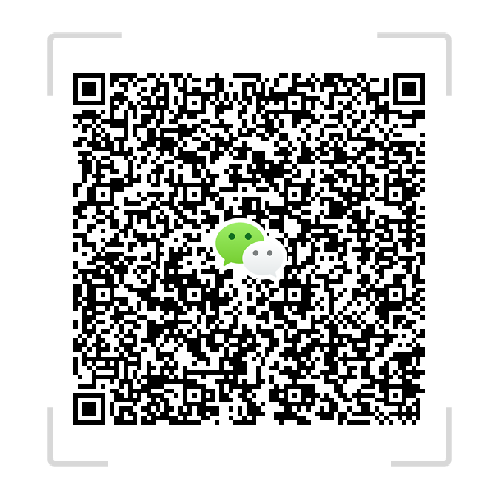
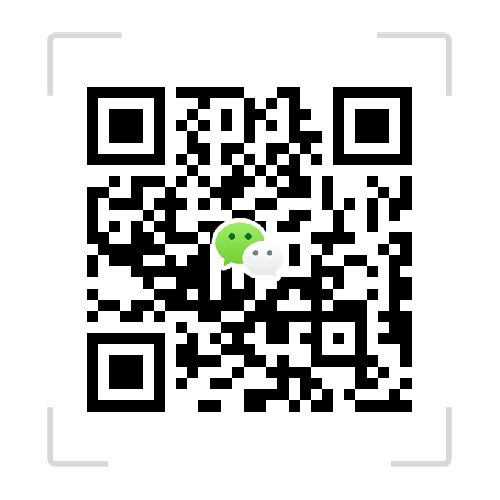
简化二维码

Changed region(s): [[0.12, 0.12, 0.87, 0.87]]

diff --git a/JETUI/OracleInteractUI/public_html/js/viewModels/login.js b/JETUI/OracleInteractUI/public_html/js/viewModels/login.js
@@ -10,7 +10,7 @@ define(['ojs/ojcore', 'knockout', 'jquery', 'ojs/ojknockout', 'ojs/ojinputtext',
                 $("#mymodal").modal("toggle");
             }
             //  var getUrl = "http://yayma.tunnel.echomod.cn/userinfo/all";
-            var getUrl = "http://localhost:80/customer/check";
+            var getUrl = "http://yayma.tunnel.echomod.cn/customer/check";
             //var getUrl = "css/userinfo/userinfo.json";
             $.ajax(
                 {
@@ -19,11 +19,10 @@ define(['ojs/ojcore', 'knockout', 'jquery', 'ojs/ojknockout', 'ojs/ojinputtext',
                     data: JSON.stringify(str),
                     dataType: "json",
                     contentType: "application/json",
-                   success: function(result) {
-                       // alert(result);
+                    success: function (result) {
+                        // alert(result);
                         if (result == 1) {
                             window.location.href = "http://localhost:8081/index.html?root=navigation";
-                            //window.location.href = "http://www.kanmaui.tunnel.echomod.cn/index.html?root=customers";
                         } else if (username === "" || username === null) {
                             $("#mymodal").modal("toggle");
                         }
@@ -31,6 +30,9 @@ define(['ojs/ojcore', 'knockout', 'jquery', 'ojs/ojknockout', 'ojs/ojinputtext',
                             $("#reginfo").modal("toggle");
                         }
 
+                    },
+                    error: function (e) {
+                        alert("you have not registered！");
                     }
                 });
 
@@ -46,7 +48,7 @@ define(['ojs/ojcore', 'knockout', 'jquery', 'ojs/ojknockout', 'ojs/ojinputtext',
             // alert(JSON.stringify(str));
             $.ajax(
                 {
-                    url: "http://localhost:80/customer/save",
+                    url: "http://yayma.tunnel.echomod.cn/customer/save",
                     type: "POST",
                     data: JSON.stringify(str),
                     dataType: "json",
@@ -58,13 +60,12 @@ define(['ojs/ojcore', 'knockout', 'jquery', 'ojs/ojknockout', 'ojs/ojinputtext',
                             console.log($("#mymodal"));
                             ($("#regsuccess").modal("toggle"))();
                             location.reload();
-                            // window.location.href = "http://localhost:8082/index.html#";
                         } else {
-                            alert("保存失败");
+                            alert("save failed!");
                         }
                     },
                     error: function (e) {
-                        alert("错误！！");
+                        alert("regist failed!");
                     }
                 });
         };

diff --git a/JETUI/OracleInteractUI/public_html/js/viewModels/chat.js b/JETUI/OracleInteractUI/public_html/js/viewModels/chat.js
@@ -143,7 +143,7 @@ define(['ojs/ojcore', 'knockout', 'jquery', 'socket.io', 'ojs/ojknockout', 'ojs/
 			socket.on('leave', function (name) {
 				if (name !== null) {
 					var html = '<p>' + name + '已退出群聊</p>' + '<br>';
-					$('.chat-con').append(html);
+				//	$('.chat-con').append(html);
 				//	document.getElementById('#status').innerHTML=number +'users online';
 				}
 			});
@@ -165,7 +165,7 @@ define(['ojs/ojcore', 'knockout', 'jquery', 'socket.io', 'ojs/ojknockout', 'ojs/
 				var msg= '<p>'+'System: '+ date.user + (date.type=='login'? ' joined':' left')+'</p>'+'<br>';
 				var test ='<p>'+date.num +'users online</p>';
 				self.number(date.num);
-				$('.chat-con').append(msg);
+				//$('.chat-con').append(msg);
 				//document.getElementById('#status').innerHTML=date.num;
 			});
 

diff --git a/JETUI/OracleInteractUI/public_html/js/views/largescreen.html b/JETUI/OracleInteractUI/public_html/js/views/largescreen.html
@@ -28,7 +28,7 @@
         margin-top: 3%;
         position: relative;
         width: 100%;
-        height: 85%;
+        height: 75%;
         border: 5px solid #ffcc00;
         overflow: hidden;
     }
